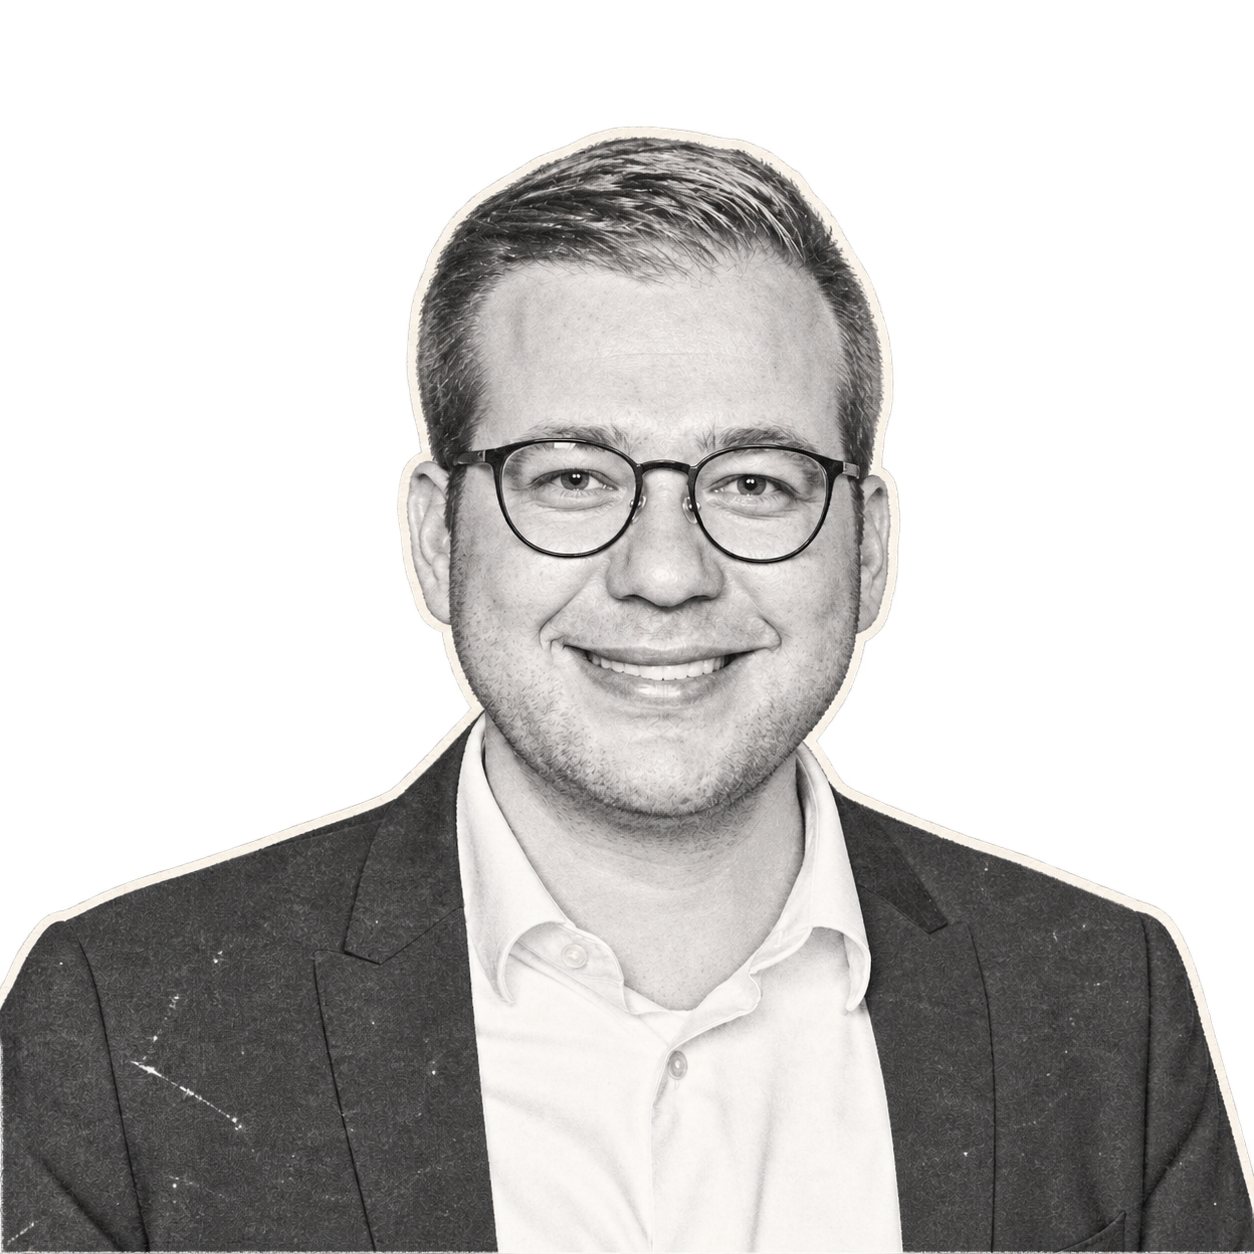
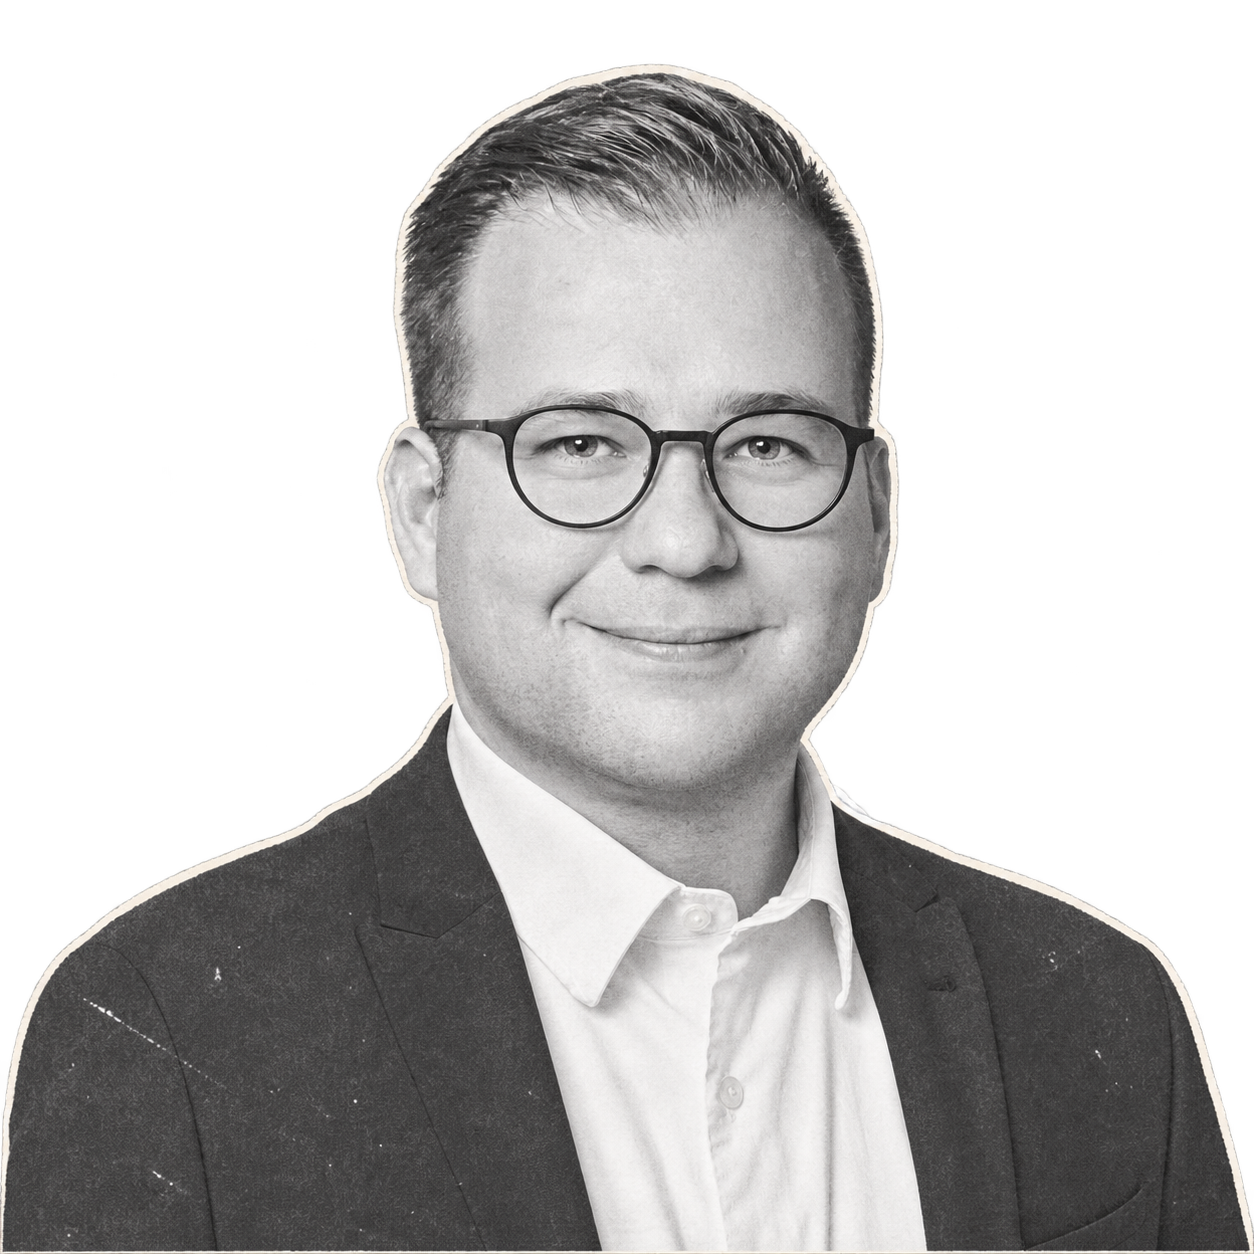
Refresh badge portrait with new paper cutout

diff --git a/index.html b/index.html
@@ -33,7 +33,7 @@
     <link rel="stylesheet" href="styles.css?v=20261108-regional-banking">
     <link rel="stylesheet" href="assets/elsewhere/elsewhere.css?v=20261031-inter-newsreader">
     <link rel="stylesheet" href="assets/lanyard/contact.css?v=20261108-strava-vector">
-    <script src="app.js?v=20261108-kaufland-text" defer></script>
+    <script src="app.js?v=20261108-badge-portrait" defer></script>
   </head>
   <body>
     <main aria-label="Digital Portrait">
@@ -80,7 +80,7 @@
                     <div class="lanyard-fallback-clip" aria-hidden="true"></div>
                     <div class="lanyard-fallback-card">
                       <span class="lanyard-fallback-handle">@chrisjohe</span>
-                      <img src="assets/lanyard/profile-paper.png" alt="Christian’s portrait as a black-and-white paper cutout." loading="lazy" decoding="async">
+                      <img src="assets/lanyard/profile-paper.png?v=20261108-badge-portrait" alt="Christian’s portrait as a black-and-white paper cutout." loading="lazy" decoding="async">
                     </div>
                   </div>
                 </div>

diff --git a/app.js b/app.js
@@ -218,7 +218,7 @@ function updatePortraitLanyard() {
   }
   if (!active || portraitLanyardLoading) return;
 
-  portraitLanyardLoading = import('./assets/lanyard/lanyard.js?v=20261031-inter-newsreader').then(({ mountLanyard }) => {
+  portraitLanyardLoading = import('./assets/lanyard/lanyard.js?v=20261108-badge-portrait').then(({ mountLanyard }) => {
     if (view !== 'section' || currentSection !== 'portrait') return;
     portraitLanyard = mountLanyard(portraitLanyardStage);
     const canvas = portraitLanyardStage.querySelector('canvas');

diff --git a/assets/lanyard/lanyard.js b/assets/lanyard/lanyard.js
@@ -594,7 +594,7 @@ const stepSimulation = (sim, dt, physics, time) => {
 
 export function mountLanyard(container) {
   const settings = {
-    frontImage: new URL('./profile-paper.png', import.meta.url).href,
+    frontImage: new URL('./profile-paper.png?v=20261108-badge-portrait', import.meta.url).href,
     backImage: null,
     imageFit: 'contain',
     cardColor: '#ffffff',
